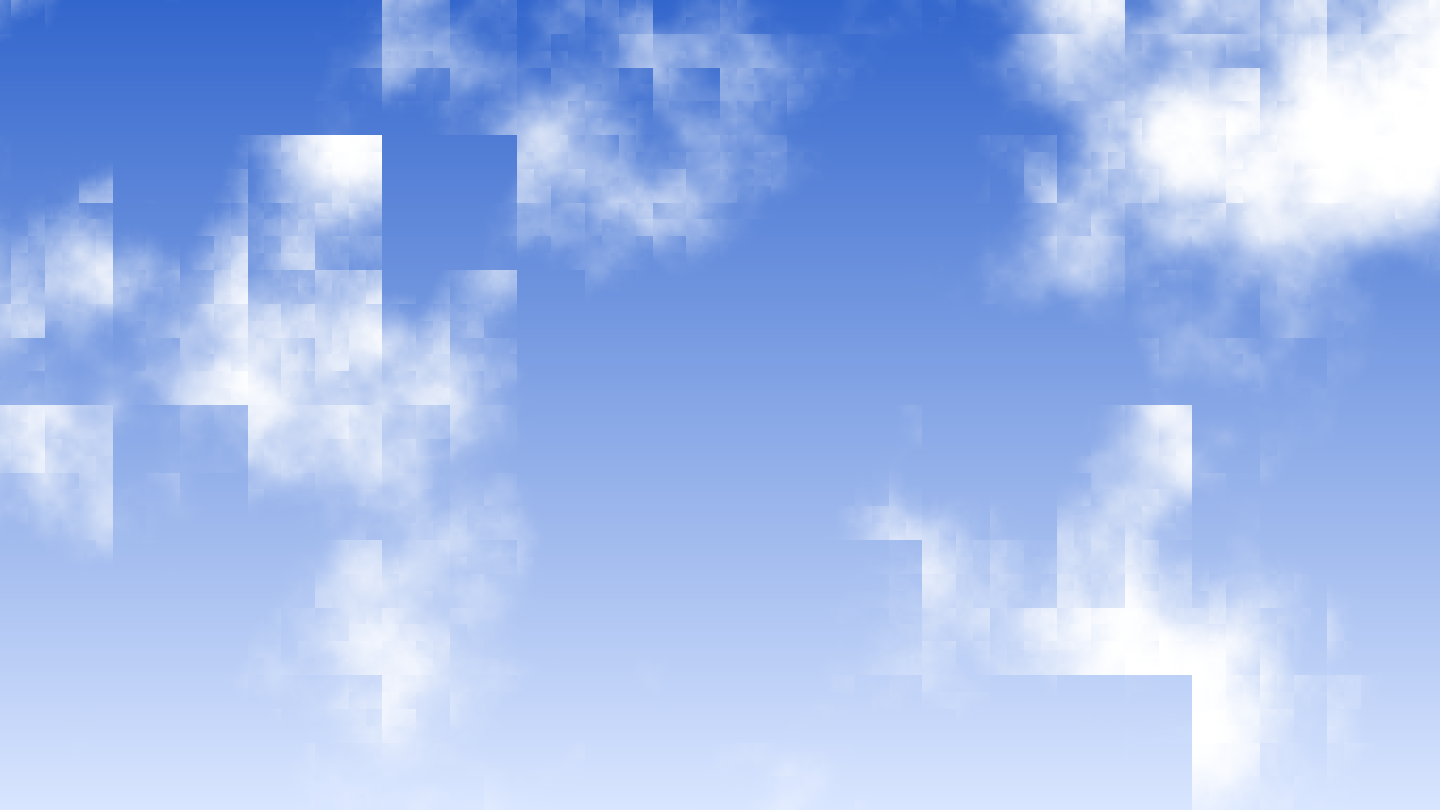
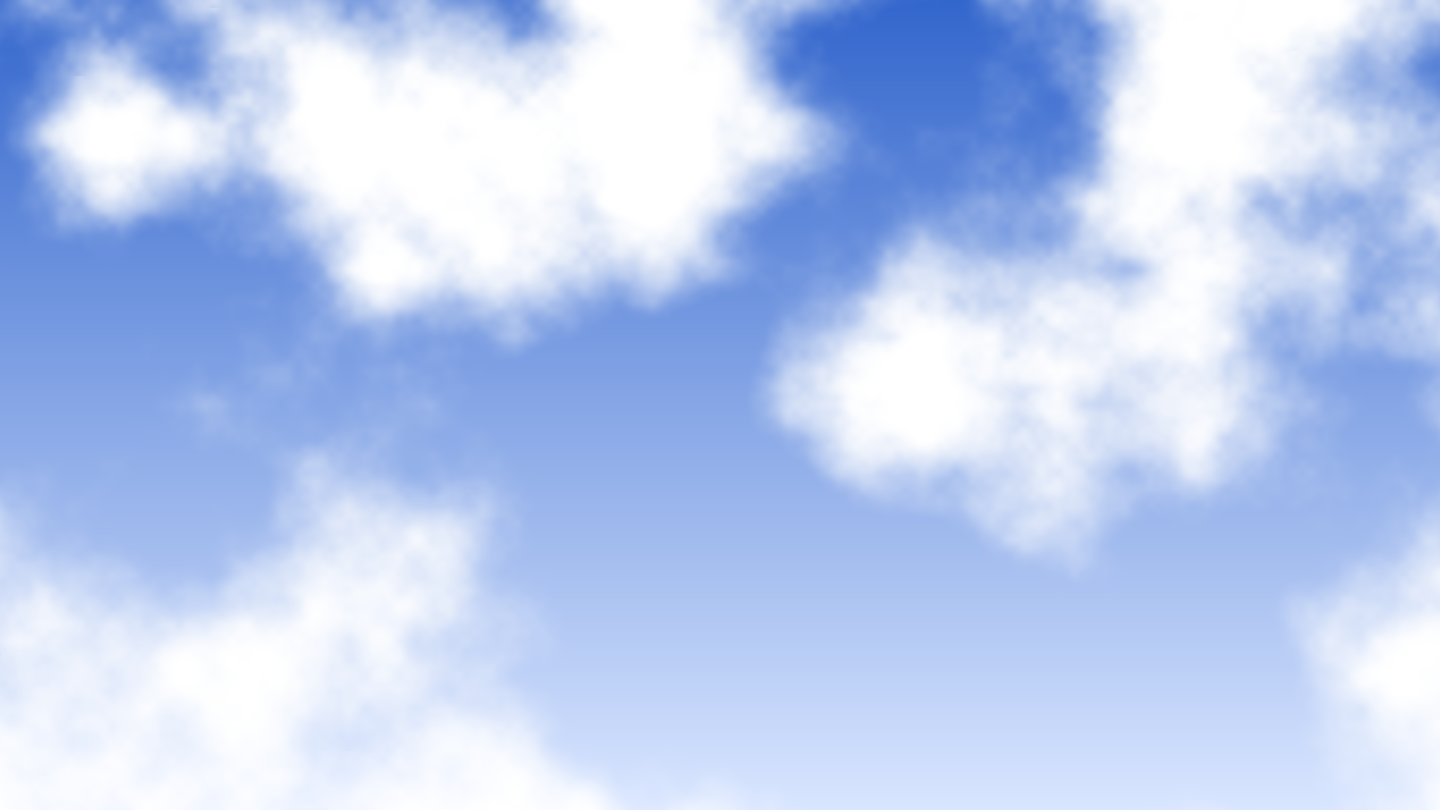
Shader in GLSL: the clouds use the hash from the Handbuch (Dave Hoskins, »Hash without Sine«); fract(sin(…) * 43758.5) gave squares instead of clouds on the NVIDIA card, and the page says in one sentence why

diff --git a/src/content/glsl/glsl.md b/src/content/glsl/glsl.md
@@ -308,7 +308,9 @@ Zufall gibt es auf dem Grafikchip nicht, jeder Pixel muss bei jedem Bild dasselb
 // eine Zufallszahl von 0 bis 1 für jeden Punkt eines Gitters, immer dieselbe
 float hash(vec2 p)
 {
-    return fract(sin(dot(p, vec2(127.1, 311.7))) * 43758.5453);
+    vec3 q = fract(vec3(p.xyx) * 0.1031);
+    q += dot(q, q.yzx + 33.33);
+    return fract((q.x + q.y) * q.z);
 }
 
 // Value Noise: zwischen den Gitterpunkten weich überblenden
@@ -363,7 +365,7 @@ crop-element: #canvas
 -->
 <img class='full fit-width' src='wolken.webp' alt='Ein blauer Himmel, oben tiefer, unten heller, mit weißen, ausgefransten Wolken in verschiedenen Größen.'>
 
-- `hash` macht aus einem Gitterpunkt eine Zahl, die zufällig aussieht, aber für denselben Punkt immer gleich ist.
+- `hash` macht aus einem Gitterpunkt eine Zahl, die zufällig aussieht, aber für denselben Punkt immer gleich ist. Sie ist dieselbe wie im Handbuch, von Dave Hoskins. Viele Beispiele im Netz nehmen stattdessen `fract(sin(…) * 43758.5)`; das gibt auf manchen Grafikchips Kästchen statt Wolken.
 - `noise` liest die Zahlen der vier Gitterpunkte um `p` und mischt weich zwischen ihnen.
 - `fbm` legt sechs Lagen Rauschen übereinander, jede doppelt so fein und halb so stark wie die vorige. Erst damit sehen die Ränder der Wolken ausgefranst aus.
 - `smoothstep(0.45, 0.75, clouds)` macht daraus Wolken mit Lücken: Wo das Rauschen unter 0,45 bleibt, ist Himmel.
